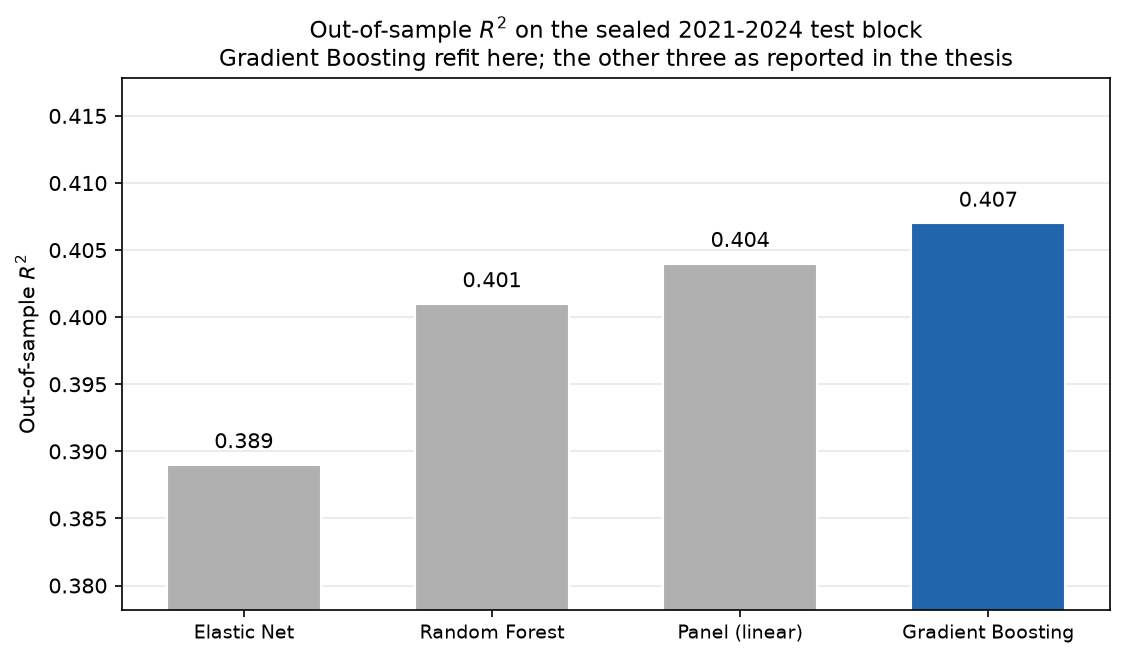
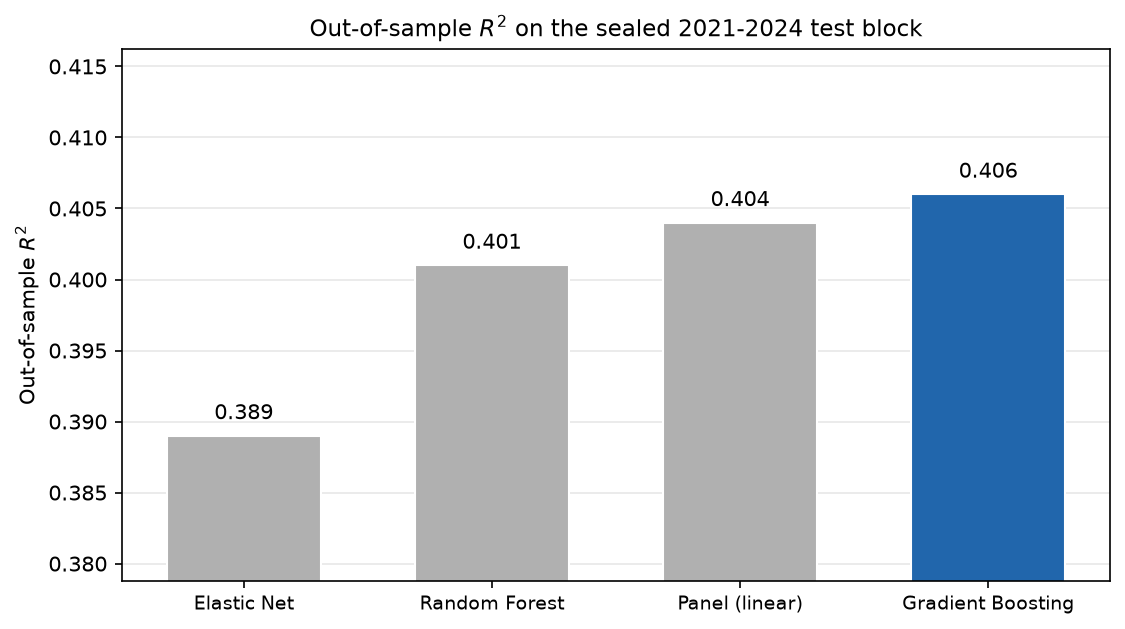
Quote the four-model comparison from its own record, and drop a duplicated export
The prose and the figure both took the Gradient Boosting bar from
model_metrics.csv while the other three came from oos_model_comparison.csv, so a
reader opening that file found 0.406 where the README said 0.407. All four
values now come from the record of the comparison as it was run, which is left
untouched: rewriting one of its rows would leave a file nobody could describe.
A note says why the metrics table further down gives 0.4070 for the same model,
and why a difference in the fourth decimal does not bear on a choice between
models that differ in the second.

results/gb_feature_importance.csv is removed. It held the same quantity as
results/model_feature_importance.csv to within two hundredths of a point, no
module or figure read it, and two near-identical names holding near-identical
numbers invite the wrong one being cited.

The model-comparison figure also loses a caption that described where each bar
came from, which is no longer true now that they share a source.

diff --git a/scripts/make_figures.py b/scripts/make_figures.py
@@ -113,19 +113,18 @@ def fig_model_comparison():
     the lowest bar on purpose: the point of the figure is how close they are.
     """
     comparison = pd.read_csv(_need(RESULTS / "oos_model_comparison.csv"))
-    metrics = pd.read_csv(_need(RESULTS / "model_metrics.csv"))
-    gb_r2 = float(metrics.loc[metrics["Sample"].str.startswith("out-of-sample"), "R2"].iloc[0])
 
     display = {
         "ElasticNet": "Elastic Net",
         "RandomForest": "Random Forest",
         "Panel": "Panel (linear)",
+        "GradientBoosting": "Gradient Boosting",
     }
-    order = ["ElasticNet", "RandomForest", "Panel"]
+    order = ["ElasticNet", "RandomForest", "Panel", "GradientBoosting"]
     comparison = comparison.set_index("Models").loc[order]
 
-    labels = [display[m] for m in order] + ["Gradient Boosting"]
-    values = list(comparison["R2"]) + [gb_r2]
+    labels = [display[m] for m in order]
+    values = list(comparison["R2"])
     colours = ["#b0b0b0", "#b0b0b0", "#b0b0b0", "#2166ac"]
 
     print("\n[fig_model_comparison] values plotted:")
@@ -150,11 +149,7 @@ def fig_model_comparison():
         )
 
     ax.set_ylabel("Out-of-sample $R^2$")
-    ax.set_title(
-        "Out-of-sample $R^2$ on the sealed 2021-2024 test block\n"
-        "Gradient Boosting refit here; the other three as reported in the thesis",
-        fontsize=11,
-    )
+    ax.set_title("Out-of-sample $R^2$ on the sealed 2021-2024 test block", fontsize=11)
     ax.tick_params(axis="x", labelsize=9)
     ax.grid(axis="y", alpha=0.3)
     ax.set_axisbelow(True)
@@ -164,7 +159,7 @@ def fig_model_comparison():
 # ------------------------------------------------------------------- trajectories
 
 def _logratio_long():
-    """Thesis log-ratio, wide monthly columns reshaped to long."""
+    """Scenario log-ratio, wide monthly columns reshaped to long."""
     wide = pd.read_csv(_need(RESULTS / "logratio_green_brown.csv"))
     long = wide.melt(
         id_vars=["Scenario", "Component", "Sector"],

diff --git a/README.md b/README.md
@@ -177,9 +177,14 @@ agree column by column, with a maximum absolute difference of 0.
 
 Out-of-sample fit is the first thing to look at, and it does part of the job: it establishes that
 all four candidates are viable, none of them failing outright. What it cannot do is separate them.
-Elastic Net 0.389, Random Forest 0.401, Panel 0.404, Gradient Boosting 0.407 — a spread of 0.018
+Elastic Net 0.389, Random Forest 0.401, Panel 0.404, Gradient Boosting 0.406 — a spread of 0.017
 across four very different specifications is a near-tie, not a ranking, and choosing the top of
 such a list would be reading noise.
+
+Those four values come from [`results/oos_model_comparison.csv`](results/oos_model_comparison.csv),
+the record of the comparison as it was run. The metrics table further down gives 0.4070 for the same
+Gradient Boosting model, which is what `evaluate.py` produces today; the two differ in the fourth
+decimal, and a choice between models that differ in the second does not turn on it.
 
 Four further criteria do the separating, by progressive elimination:
 
@@ -385,8 +390,8 @@ file is missing.
 
 Some files in `results/` are exports of results computed before this code existed and are not
 rebuilt by it: `logratio_green_brown.csv`, `scenario_monthly_predictions.csv`,
-`cumulative_returns.csv`, `oos_model_comparison.csv`, `gb_final_metrics.csv`, `en_metrics.csv` and
-`gb_feature_importance.csv`. They are tracked because they cannot be reconstructed without the
+`cumulative_returns.csv`, `oos_model_comparison.csv`, `gb_final_metrics.csv` and `en_metrics.csv`.
+They are tracked because they cannot be reconstructed without the
 proprietary inputs.
 
 ## Citation
